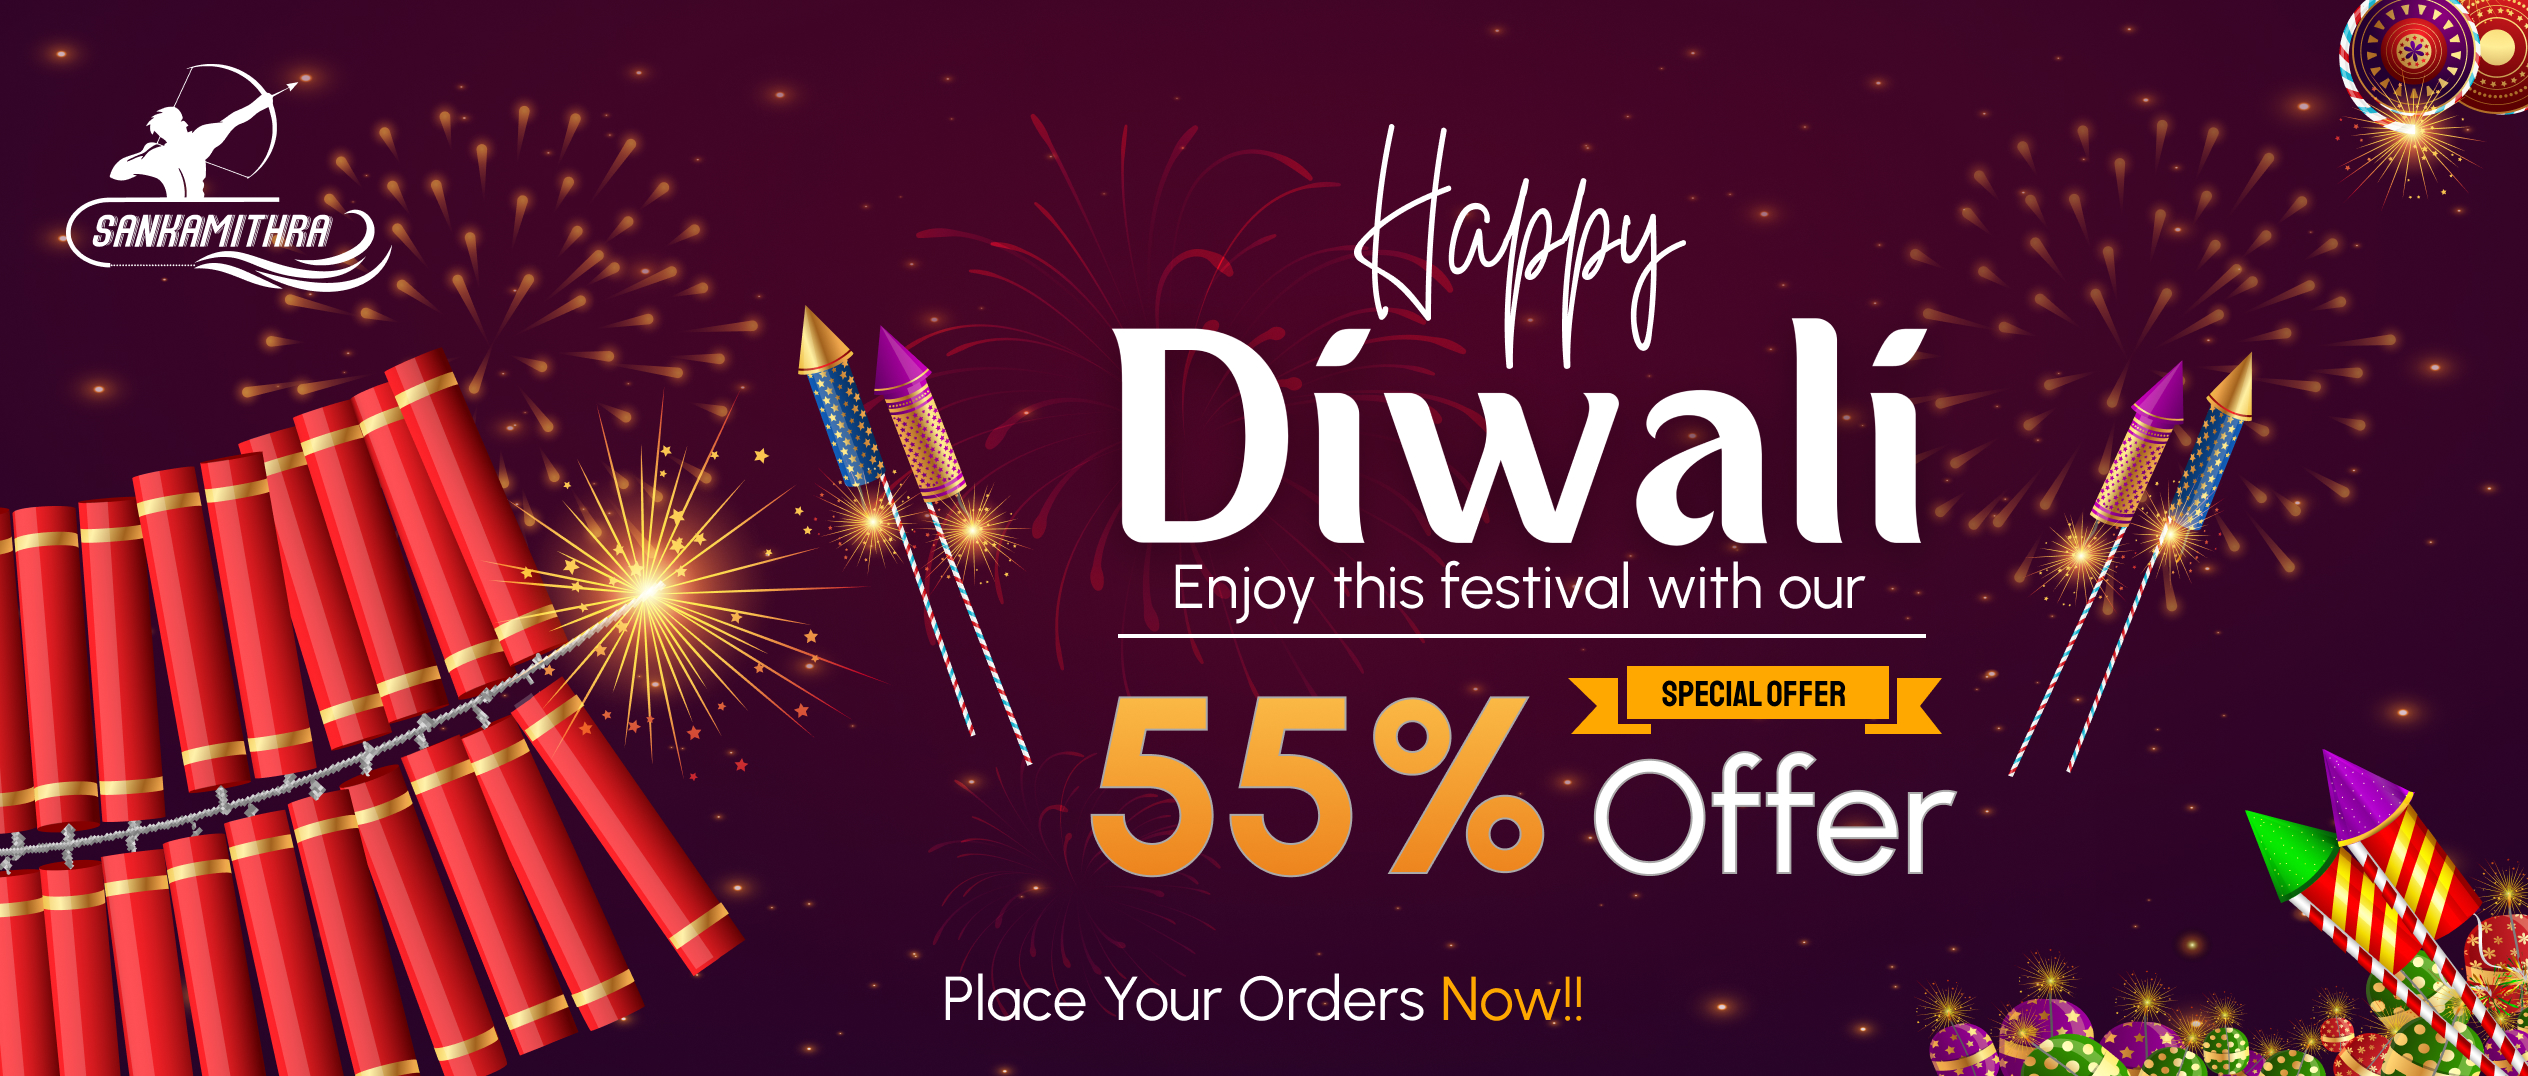
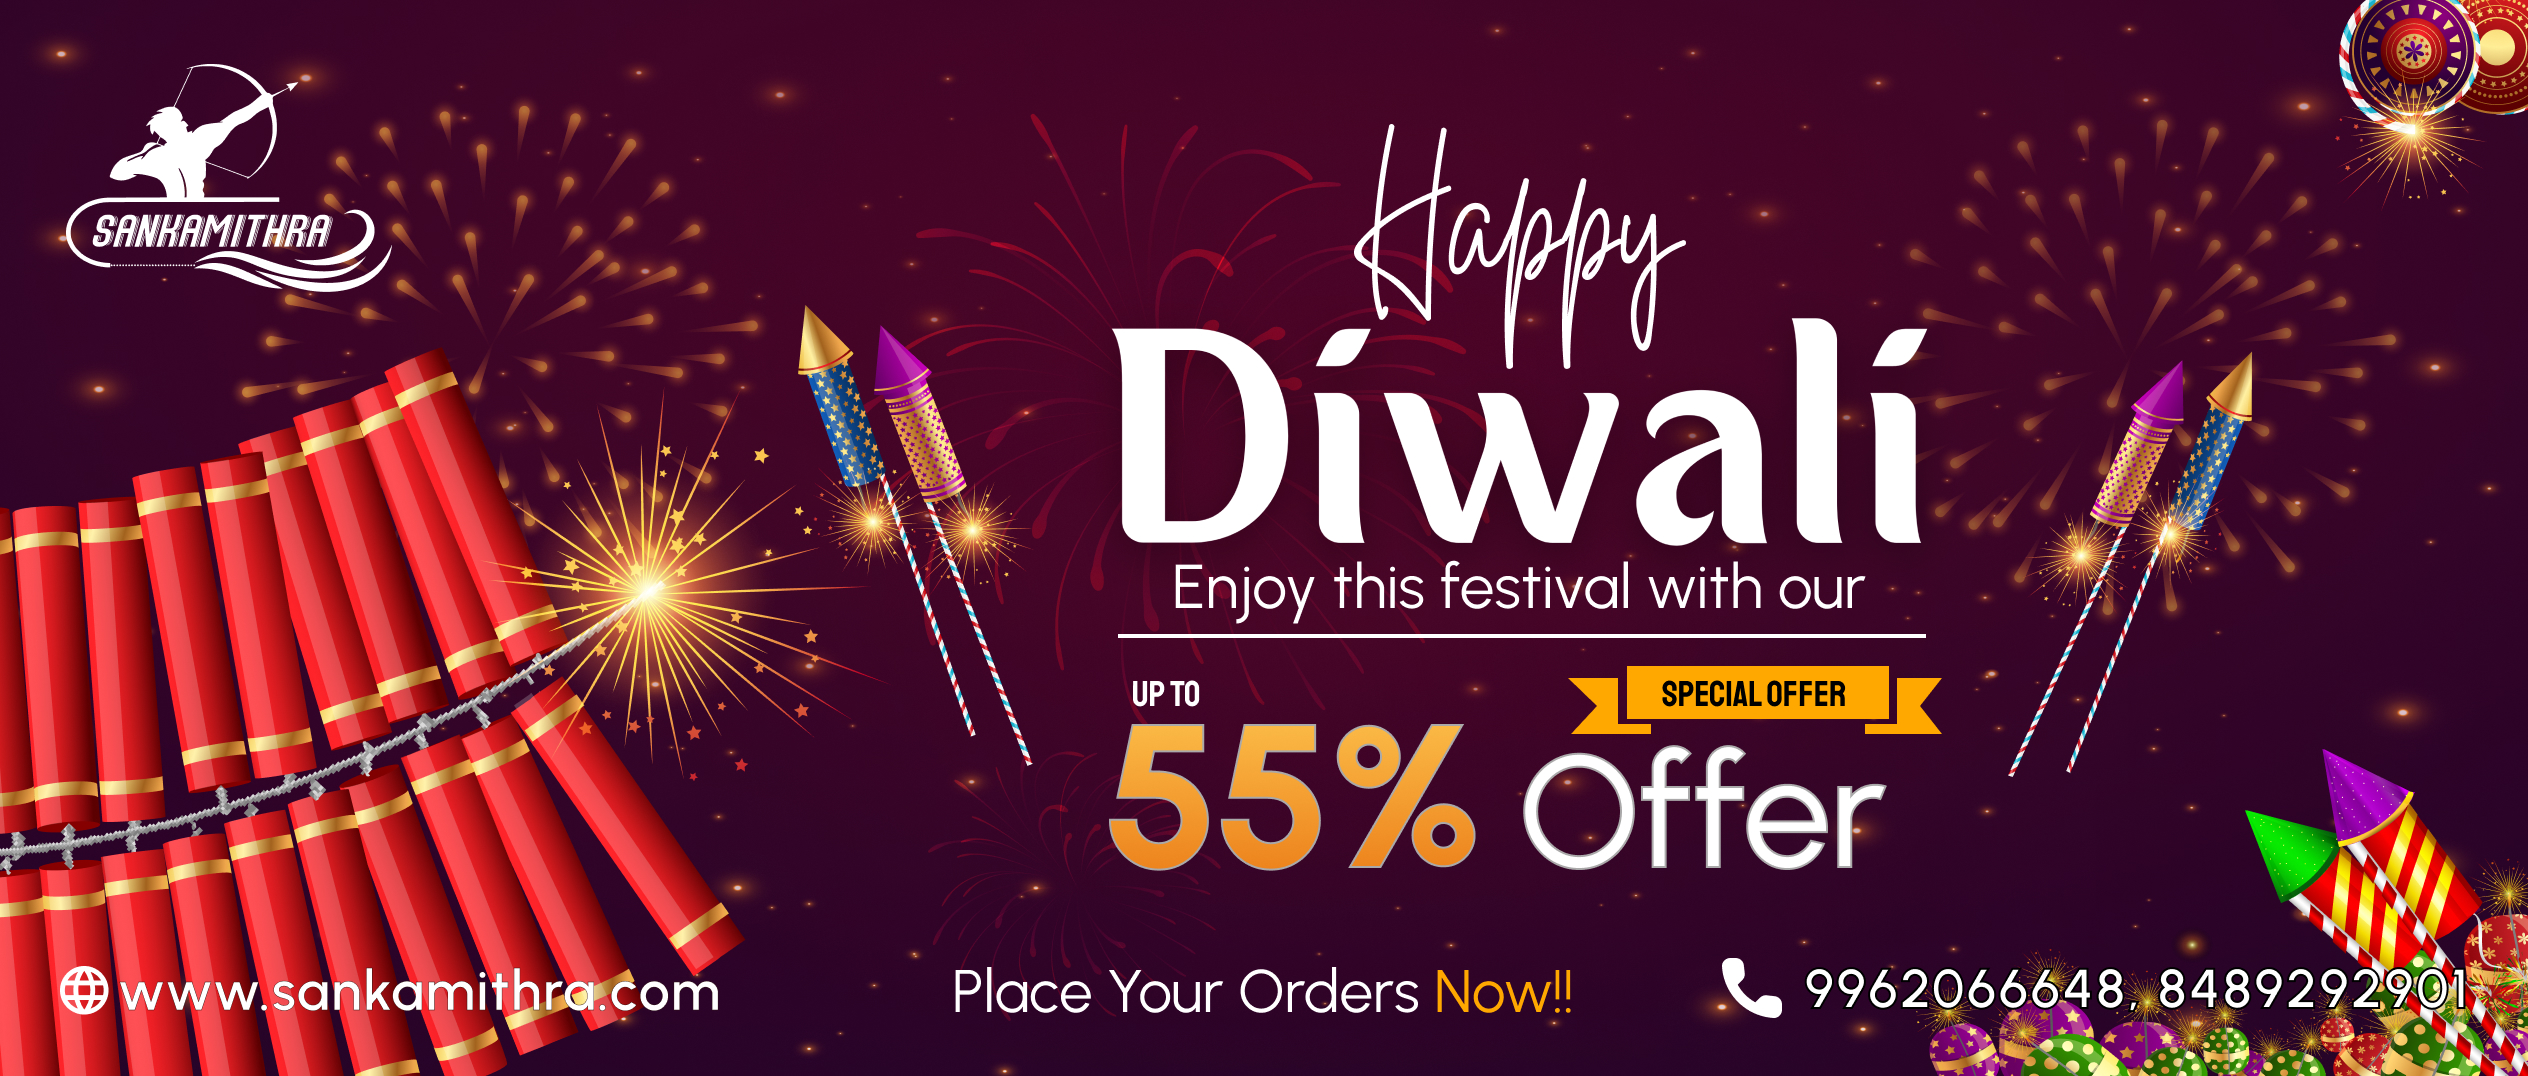
final 4

diff --git a/app/contact/page.js b/app/contact/page.js
@@ -81,6 +81,14 @@ function AddressComponent() {
               Sattur Road, <br />
               Sivakasi - 626123.
             </Typography>
+            <Typography
+              className={quicksand.className}
+              fontSize={20}
+              fontWeight={400}
+            >
+              Ph: +91 99446 95228 <br />
+              &nbsp;&ensp;&emsp;+91 75488 20326
+            </Typography>
           </Stack>
           <Stack gap={2}>
             <Typography
@@ -100,6 +108,14 @@ function AddressComponent() {
               9/241, <br />
               Kanmaisurangudi Village, <br />
               Sattur-626203.
+            </Typography>
+            <Typography
+              className={quicksand.className}
+              fontSize={20}
+              fontWeight={400}
+            >
+              Ph: +91 99620 66648 <br />
+              &nbsp;&ensp;&emsp;+91 84892 92901
             </Typography>
           </Stack>
         </Stack>

diff --git a/app/components/productTab.js b/app/components/productTab.js
@@ -45,11 +45,18 @@ export default function ProductTab({ category }) {
       margin={{
         xs: "0",
         sm: "20px",
-        md: "40px 0 0 0",
+        md: "20px 0 0 0",
       }}
       width={"100%"}
     >
-      <h4 id="product" style={{ fontSize: "32px", fontWeight: "bold", marginLeft:"10px", marginTop:"40px" }}>
+      <h4
+        id="product"
+        style={{
+          fontSize: "32px",
+          fontWeight: "bold",
+          marginLeft: "10px",
+        }}
+      >
         {category
           ? category === "Atom bombs"
             ? "Atom bombs & Bijili"

diff --git a/app/components/navBarOne.js b/app/components/navBarOne.js
@@ -91,12 +91,13 @@ export default function NavBarOne() {
         >
           <CloseRoundedIcon onClick={handleMenu} />
         </IconButton>
-        <Link style={linkStyle} href="/shop" onClick={handleMenu}>
-          Shop
-        </Link>
         <Link style={linkStyle} href="/" onClick={handleMenu}>
           Home
         </Link>
+        <Link style={linkStyle} href="/shop" onClick={handleMenu}>
+          Shop
+        </Link>
+
         <Link style={linkStyle} href="/factory" onClick={handleMenu}>
           Factory
         </Link>

diff --git a/app/components/navBarTwo.js b/app/components/navBarTwo.js
@@ -33,12 +33,13 @@ export default function NavBarTwo() {
           justifyContent="space-between"
           alignItems="center"
         >
-          <Link style={linkStyle} href="/shop">
-            Shop
-          </Link>
           <Link style={linkStyle} href="/">
             Home
           </Link>
+          <Link style={linkStyle} href="/shop">
+            Shop
+          </Link>
+
           <Link style={linkStyle} href="/factory">
             Factory
           </Link>

diff --git a/app/shop/page.js b/app/shop/page.js
@@ -21,8 +21,8 @@ export default function Shop() {
       <Stack width={"100%"} maxWidth={"var(--max-width)"} padding={"40px 0"}>
         <Stack
           m={{
-            xs: "20px",
-            sm: "40px",
+            xs: "0 20px",
+            sm: "0 40px",
           }}
         >
           <ShopByCategory />
